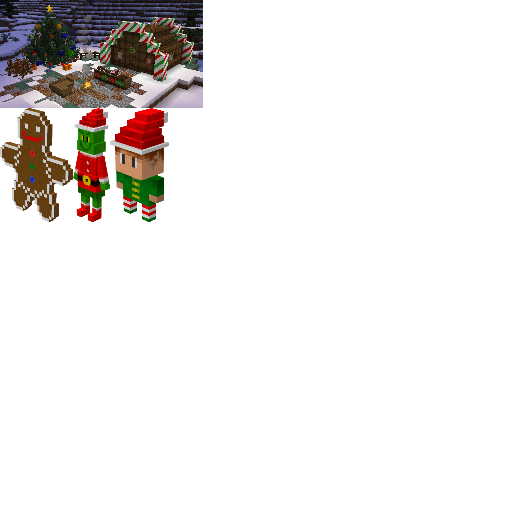
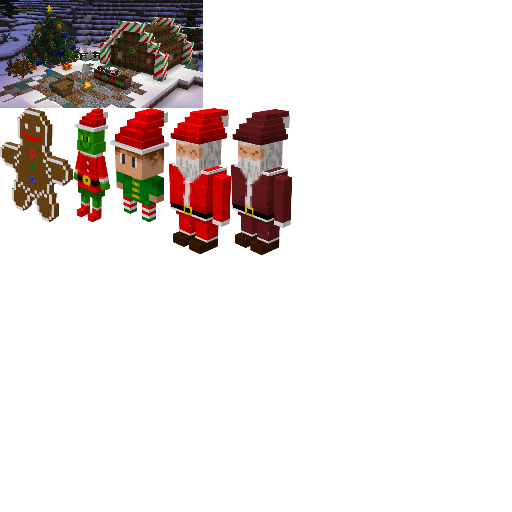
Update christmas guide book and remove fall damage from santa

Changed region(s): [[0.3125, 0.1875, 0.5938, 0.5]]

diff --git a/src/main/java/com/jumpcutfindo/happyholidays/common/entity/christmas/santa/angry/SleighEntity.java b/src/main/java/com/jumpcutfindo/happyholidays/common/entity/christmas/santa/angry/SleighEntity.java
@@ -68,7 +68,7 @@ public class SleighEntity extends Entity implements IAnimatable {
         }
 
         if (this.isMoving && --this.remainingLifespan <= 0) {
-            this.explode();
+            this.explode(false);
         }
 
         if (!this.isNoGravity() && !this.isOnGround()) {
@@ -89,7 +89,7 @@ public class SleighEntity extends Entity implements IAnimatable {
         super.playerTouch(playerEntity);
 
         if (playerEntity.getBoundingBox().intersects(this.getBoundingBox())) {
-            this.explode();
+            this.explode(true);
         }
     }
 
@@ -108,8 +108,10 @@ public class SleighEntity extends Entity implements IAnimatable {
         return this.yRot % 90.0f != 0.0f;
     }
 
-    private void explode() {
-        this.level.explode(this, this.getX(), this.getY(0.0625D), this.getZ(), 3.0F, Explosion.Mode.NONE);
+    private void explode(boolean isHitPlayer) {
+        float explosivePower = isHitPlayer ? 3.0F : 1.0F;
+
+        this.level.explode(this, this.getX(), this.getY(0.0625D), this.getZ(), explosivePower, Explosion.Mode.NONE);
         this.remove();
     }
 

diff --git a/src/main/java/com/jumpcutfindo/happyholidays/client/block/model/MusicBoxModel.java b/src/main/java/com/jumpcutfindo/happyholidays/client/block/model/MusicBoxModel.java
@@ -14,6 +14,7 @@ public class MusicBoxModel extends AnimatedGeoModel<MusicBoxTileEntity> {
 
     @Override
     public ResourceLocation getTextureLocation(MusicBoxTileEntity object) {
+        // TODO: Fix music box texture; one is stretched
         return new ResourceLocation(HappyHolidaysMod.MOD_ID, "textures/block/music_box_block.png");
     }
 

diff --git a/src/main/java/com/jumpcutfindo/happyholidays/common/entity/christmas/santa/BaseSantaEntity.java b/src/main/java/com/jumpcutfindo/happyholidays/common/entity/christmas/santa/BaseSantaEntity.java
@@ -75,4 +75,9 @@ public class BaseSantaEntity extends ChristmasEntity implements IAnimatable {
     protected SoundEvent getDeathSound() {
         return SoundRegistry.SANTA_HURT.get();
     }
+    
+    @Override
+    protected int calculateFallDamage(float p_225508_1_, float p_225508_2_) {
+        return 0;
+    }
 }
